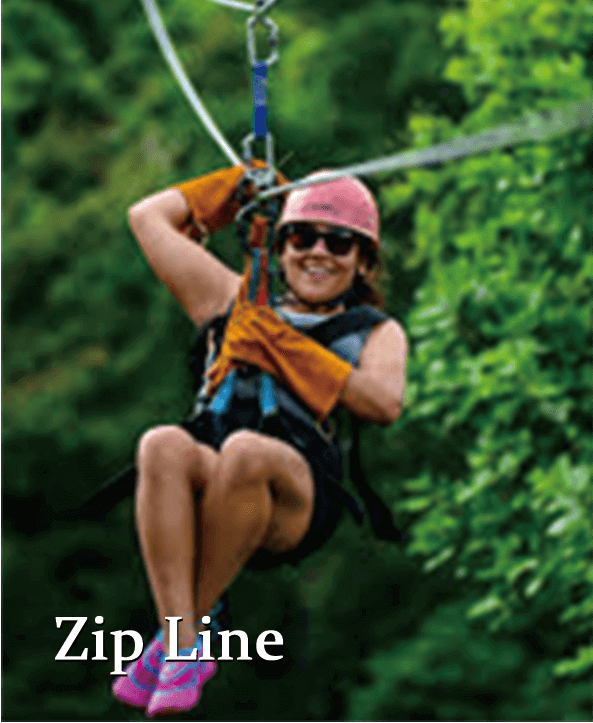
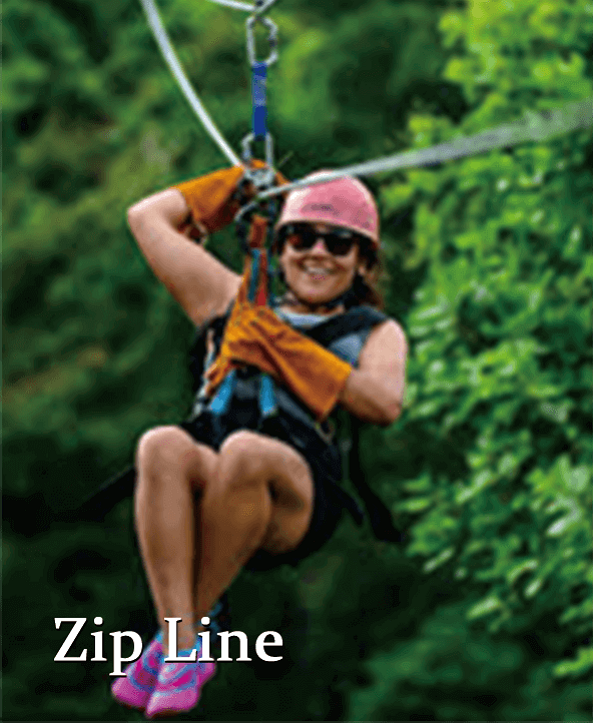
[change] Sort out images

diff --git a/index.html b/index.html
@@ -614,7 +614,7 @@
 		</div>
 		<div class="reg_pic3 eu col-xs-12 col-sm-4 col-lg-4">
 			<a class="reg_mask mask11">
-				<img src="image/P1080781.png">
+				<img src="image/re_austria.png">
 			</a>
 		</div>		
 		<div class="clear"></div>	
